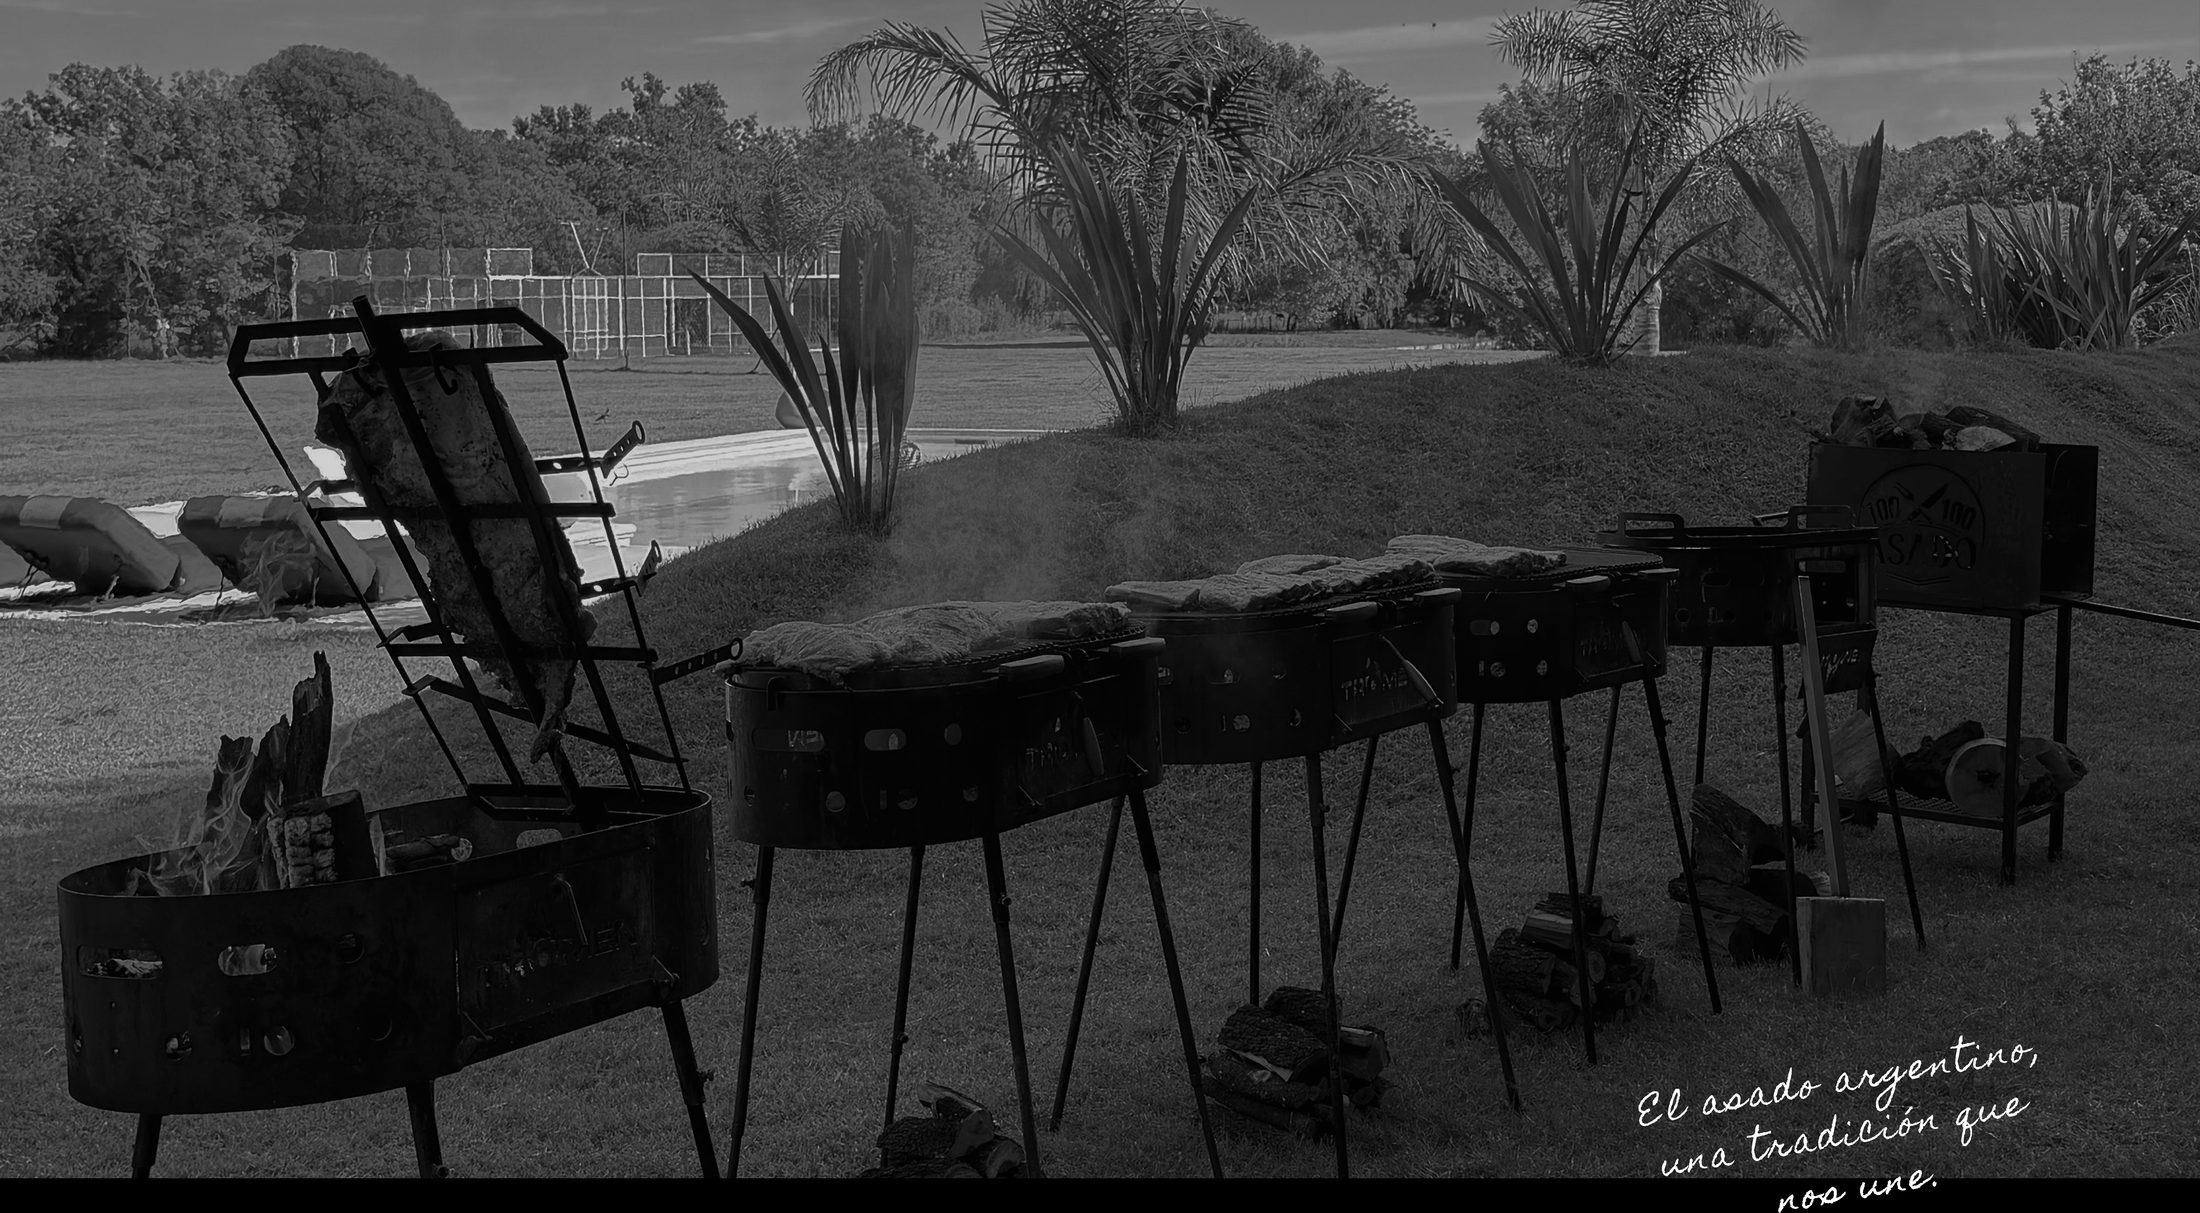
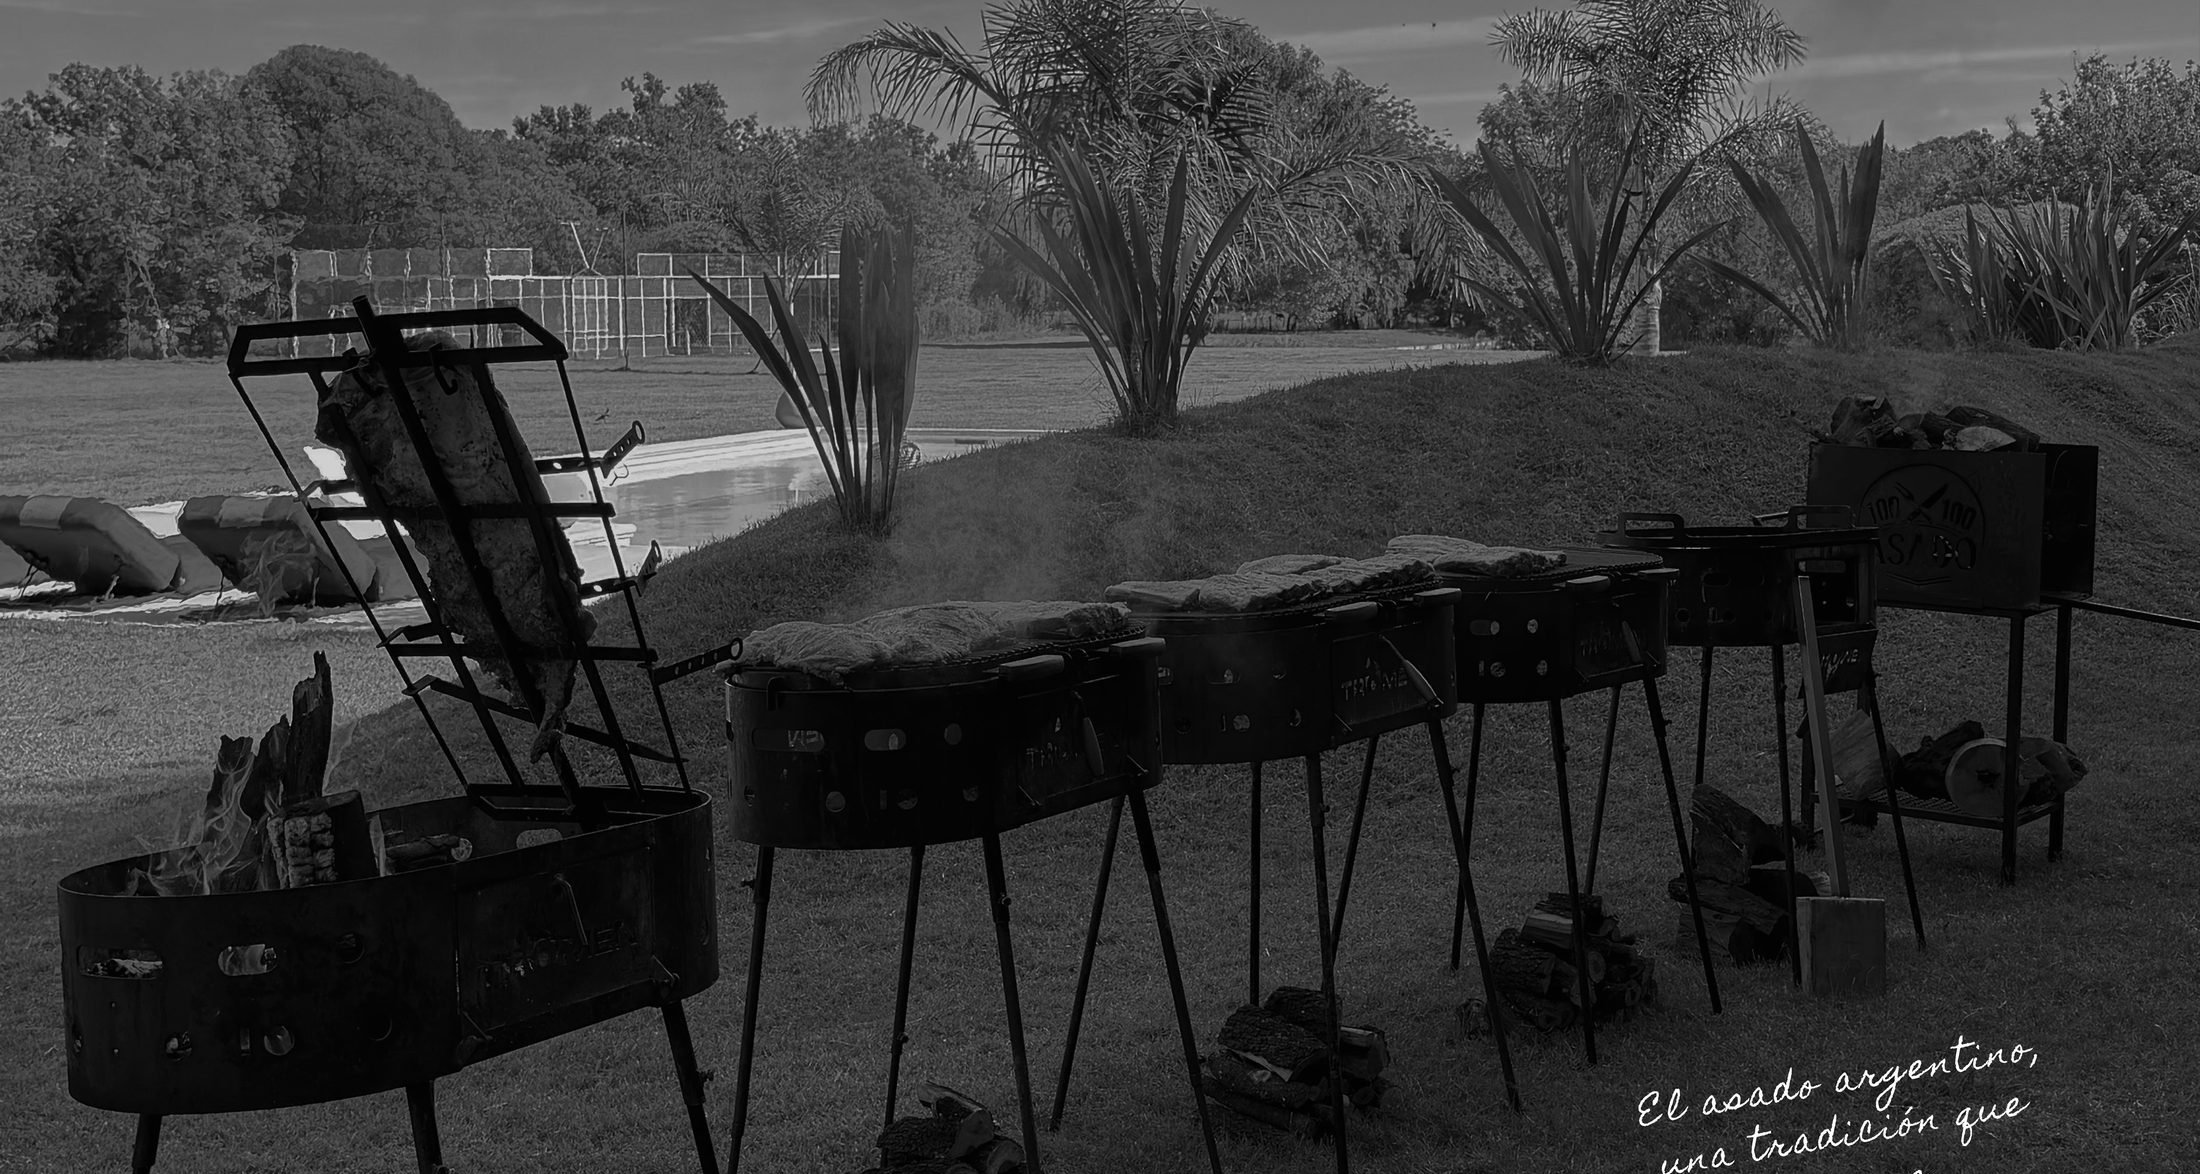
Remove the hero's baked-in caption bar for good, fix intro__bg sizing
The bottom of the hero photo had a full-width solid black caption bar
with "El asado argentino..." written directly on it (not just excess
letterboxing above/below the text) - any crop that kept the text also
kept part of the bar. Crop the whole bar out now (loses the last line
of the script caption, keeps the rest of the photo intact).

Also: .intro__bg was missing explicit width/height 100%, so as a
replaced element it sized itself to the image's intrinsic dimensions
(1440x829) instead of stretching to the section's actual box
(1440x771), overflowing the container. Match the .propuesta__bg
pattern that already had this right.

Changed region(s): [[0.0, 0.0, 1.0, 1.0], [0.9891, 0.7666, 1.0, 0.7973], [0.5564, 0.3986, 0.5873, 0.4293]]

diff --git a/css/styles.css b/css/styles.css
@@ -171,6 +171,8 @@ main { overflow: hidden; }
   position: absolute;
   inset: 0;
   z-index: 0;
+  width: 100%;
+  height: 100%;
 }
 .intro__photo-frame {
   position: absolute;
